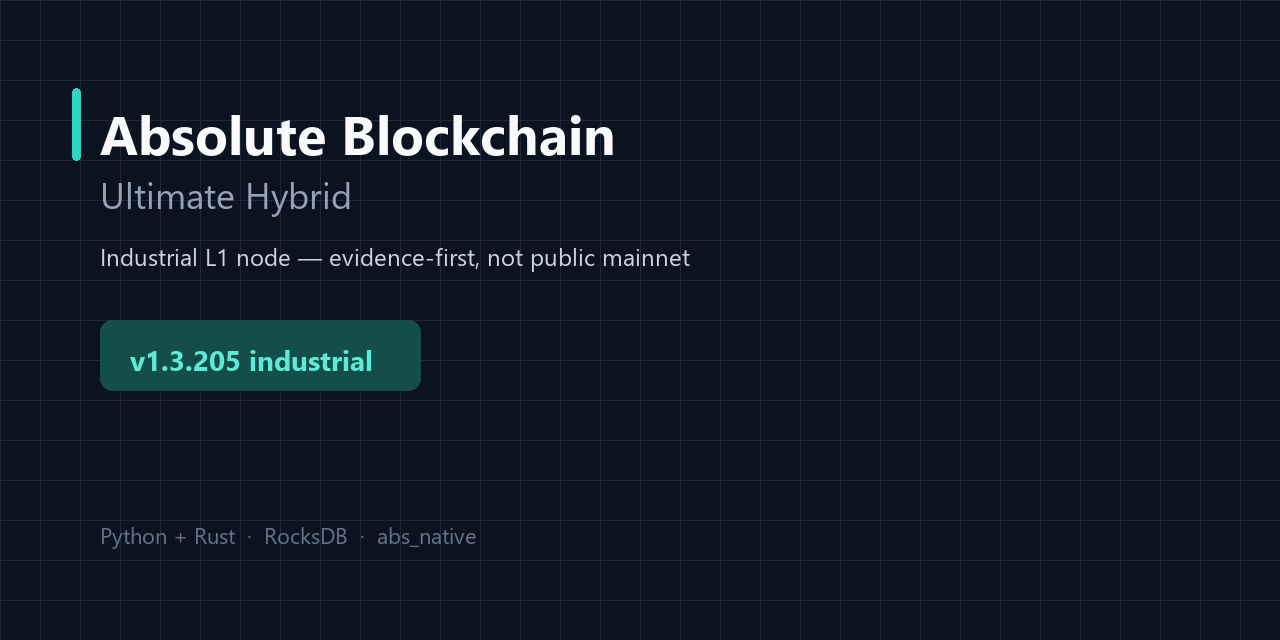
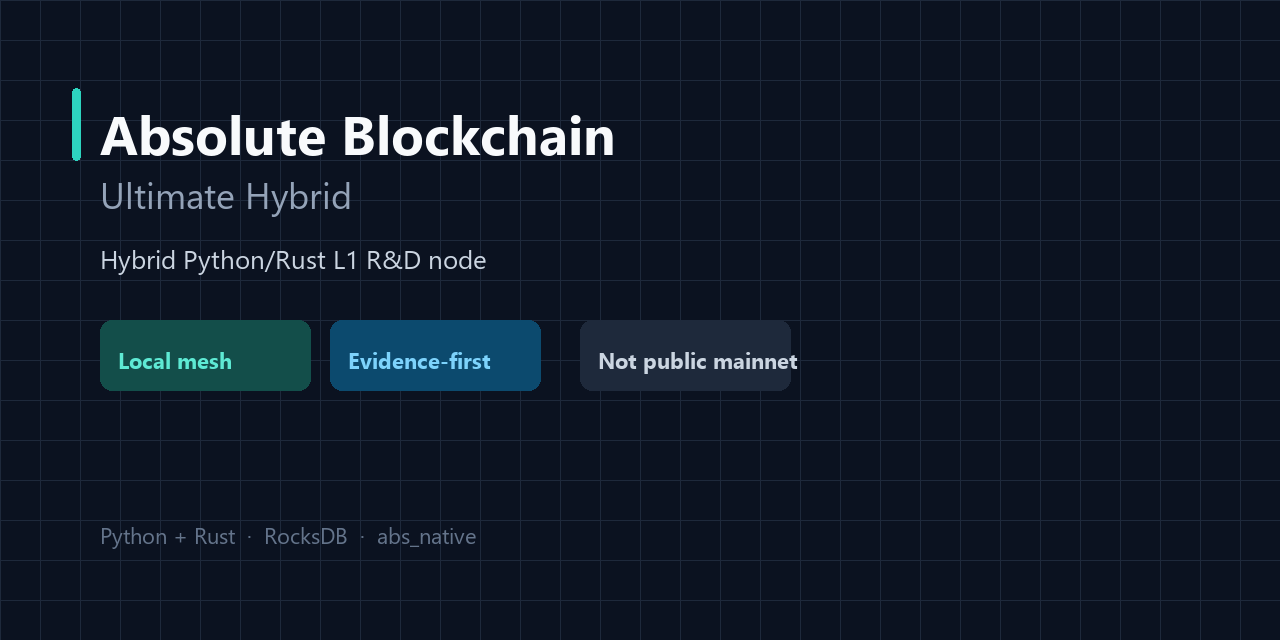
docs: tighten GitHub first screen — evergreen preview, Security checks, private vuln link.

Changed region(s): [[0.0938, 0.5, 0.625, 0.625], [0.0625, 0.375, 0.5312, 0.4375]]

diff --git a/README.md b/README.md
@@ -2,48 +2,13 @@
 
 ![Absolute Blockchain Ultimate Hybrid — Python + Rust L1](docs/assets/repo-banner.svg)
 
-**Hybrid Python + Rust L1 node** — prod-profile mesh, RocksDB, REST/JSON-RPC, `abs_native`, EVM, Docker/K8s. Evidence-first. **Not** a launched public mainnet.
+**Hybrid Python + Rust L1 node** for local prod-profile mesh and evidence-first R&D. **Not** a launched public mainnet.
 
-**Skimmer (30s):** [AT_A_GLANCE](docs/AT_A_GLANCE.md) · **Prove:** `.\scripts\operator_verify.ps1 -SkipNativeBuild` · **Gaps:** [MAINNET_GAP_ANALYSIS](docs/MAINNET_GAP_ANALYSIS.md)
-
-[![Stars](https://img.shields.io/github/stars/Gruver87/Absolute_Blockchain_Ultimate_Hybrid?style=social)](https://github.com/Gruver87/Absolute_Blockchain_Ultimate_Hybrid/stargazers)
 [![Release](https://img.shields.io/github/v/release/Gruver87/Absolute_Blockchain_Ultimate_Hybrid?include_prereleases&sort=semver)](https://github.com/Gruver87/Absolute_Blockchain_Ultimate_Hybrid/releases)
 [![License](https://img.shields.io/badge/License-MIT-green)](LICENSE)
 [![Tests CI](https://github.com/Gruver87/Absolute_Blockchain_Ultimate_Hybrid/actions/workflows/test.yml/badge.svg?branch=master)](https://github.com/Gruver87/Absolute_Blockchain_Ultimate_Hybrid/actions/workflows/test.yml)
 [![Docker CI](https://github.com/Gruver87/Absolute_Blockchain_Ultimate_Hybrid/actions/workflows/docker-prod-image.yml/badge.svg?branch=master)](https://github.com/Gruver87/Absolute_Blockchain_Ultimate_Hybrid/actions/workflows/docker-prod-image.yml)
-[![Security audit](https://github.com/Gruver87/Absolute_Blockchain_Ultimate_Hybrid/actions/workflows/security-audit.yml/badge.svg?branch=master)](https://github.com/Gruver87/Absolute_Blockchain_Ultimate_Hybrid/actions/workflows/security-audit.yml)
-[![Native fuzz](https://github.com/Gruver87/Absolute_Blockchain_Ultimate_Hybrid/actions/workflows/fuzz-native.yml/badge.svg?branch=master)](https://github.com/Gruver87/Absolute_Blockchain_Ultimate_Hybrid/actions/workflows/fuzz-native.yml)
-[![48h soak](https://img.shields.io/badge/48h%20soak-PASS-brightgreen)](docs/EVIDENCE_MATRIX.md)
-[![v1.3.205](https://img.shields.io/badge/tag-v1.3.205-blue)](RELEASE_NOTES_v1.3.205.md)
-[![Python](https://img.shields.io/badge/Python-3.10+-blue)](https://www.python.org/)
-[![Rust](https://img.shields.io/badge/Rust-abs__native-orange)](native/abs_native)
-
-| | |
-|---|---|
-| **Release** | [v1.3.205](RELEASE_NOTES_v1.3.205.md) · [CHANGELOG](CHANGELOG.md) · [Releases](https://github.com/Gruver87/Absolute_Blockchain_Ultimate_Hybrid/releases) |
-| **Prove it** | `.\scripts\operator_verify.ps1 -SkipNativeBuild` · `.\scripts\check_all.ps1` · CI badges above |
-| **Run** | `python main.py` → http://localhost:8080 |
-| **Chains** | `77777` lab · `778888` prod-profile (**not** public mainnet) |
-| **Evidence** | [EVIDENCE_MATRIX](docs/EVIDENCE_MATRIX.md) · gaps: [MAINNET_GAP_ANALYSIS](docs/MAINNET_GAP_ANALYSIS.md) |
-
----
-
-## 30 seconds — see everything
-
-| | Status | Proof |
-|---|--------|-------|
-| Docker / local mesh | **Proven** | CI · `docker_prod_3node` |
-| 3-node prod-profile (`778888`) | **Proven** | `:18180–18182` |
-| Failover + signed tx + EVM on mesh | **Proven** | Jul 2026 suite |
-| **48h soak** | **PASS** | `logs/soak_report_48h.json` |
-| Public mainnet / listed ABS / external audit | **No** | [gaps](docs/MAINNET_GAP_ANALYSIS.md) |
-| Bridge on live mesh | **OFF** | by design until L1 cutover |
-
-> Not an investment product. ABS = in-repo tokenomics (221M), not a listed asset. No real funds without independent audit.
-
-**Jump:** [Start](#start-in-60-seconds) · [Layout](#repo-layout-skimmers) · [Architecture](#architecture) · [Ops](#operator-cheatsheet) · [Docs](#docs-map) · [Professional posture](docs/REPO_PROFESSIONAL.md) · [Contribute](CONTRIBUTING.md) · [Support](SUPPORT.md)
-
----
+[![Security checks](https://github.com/Gruver87/Absolute_Blockchain_Ultimate_Hybrid/actions/workflows/security-audit.yml/badge.svg?branch=master)](https://github.com/Gruver87/Absolute_Blockchain_Ultimate_Hybrid/actions/workflows/security-audit.yml)
 
 ## Start in 60 seconds
 
@@ -59,6 +24,25 @@ pip install -r requirements.txt && cp .env.example .env
 | **Windows** | `.\scripts\build_native.ps1` | `.\scripts\operator_verify.ps1 -SkipNativeBuild` | `python main.py` |
 
 Explorer: http://localhost:8080 · Mesh: `make mesh-up` or `.\scripts\docker_prod_3node.ps1`
+
+**Skimmer:** [AT_A_GLANCE](docs/AT_A_GLANCE.md) · **Gaps:** [MAINNET_GAP_ANALYSIS](docs/MAINNET_GAP_ANALYSIS.md) · **Release:** [CHANGELOG](CHANGELOG.md)
+
+---
+
+## Proven vs not
+
+| | Status | Proof |
+|---|--------|-------|
+| Docker / local mesh | **Proven** | CI · `docker_prod_3node` |
+| 3-node prod-profile (`778888`) | **Proven** | `:18180–18182` |
+| Failover + signed tx + EVM on mesh | **Proven** | Jul 2026 suite |
+| **48h soak** | **PASS** | `logs/soak_report_48h.json` |
+| Public mainnet / listed ABS / external audit | **No** | [gaps](docs/MAINNET_GAP_ANALYSIS.md) |
+| Bridge on live mesh | **OFF** | by design until L1 cutover |
+
+> Not an investment product. ABS = in-repo tokenomics (221M), not a listed asset. No real funds without independent audit.
+
+**Jump:** [Layout](#repo-layout-skimmers) · [Architecture](#architecture) · [Ops](#operator-cheatsheet) · [Docs](#docs-map) · [Contribute](CONTRIBUTING.md) · [Support](SUPPORT.md)
 
 ---
 

diff --git a/.github/REPO_PROFILE.md b/.github/REPO_PROFILE.md
@@ -3,13 +3,13 @@
 Apply with:
 
 ```powershell
-gh repo edit --description "Absolute Blockchain — hybrid Python/Rust L1: prod 3-node mesh, RocksDB, REST/JSON-RPC, EVM, abs_native. 48h soak PASS (Jul 2026). Evidence-first — not a launched public mainnet."
-gh repo edit --homepage "https://github.com/Gruver87/Absolute_Blockchain_Ultimate_Hybrid#readme"
+gh repo edit --description "Hybrid Python/Rust L1 node for local mesh and evidence-first R&D — not a public mainnet."
+gh repo edit --homepage "https://github.com/Gruver87/Absolute_Blockchain_Ultimate_Hybrid#start-in-60-seconds"
 # topics (idempotent add):
 @(
   "absolute-blockchain","blockchain","blockchain-node","layer1","python","rust","pyo3",
-  "p2p","evm","rocksdb","docker","kubernetes","json-rpc","rest-api","pos","devnet",
-  "tokenomics","industrial","soak-test","cryptography","web3","hybrid-blockchain"
+  "p2p","evm","rocksdb","docker","kubernetes","json-rpc","rest-api","devnet",
+  "soak-test","cryptography","web3","hybrid-blockchain","blockchain-development"
 ) | ForEach-Object { gh repo edit --add-topic $_ }
 ```
 
@@ -17,11 +17,11 @@ Or paste into **Settings → General → About**.
 
 | Field | Value |
 |-------|-------|
-| **Description** | Absolute Blockchain — hybrid Python/Rust L1: prod 3-node mesh, RocksDB, REST/JSON-RPC, EVM, abs_native. 48h soak PASS (Jul 2026). Evidence-first — not a launched public mainnet. |
-| **Website** | https://github.com/Gruver87/Absolute_Blockchain_Ultimate_Hybrid#30-seconds--see-everything |
-| **Social preview** | ✅ Upload `docs/assets/repo-social-preview.png` in **Settings → General → Social preview** (done) |
+| **Description** | Hybrid Python/Rust L1 node for local mesh and evidence-first R&D — not a public mainnet. |
+| **Website** | https://github.com/Gruver87/Absolute_Blockchain_Ultimate_Hybrid#start-in-60-seconds |
+| **Social preview** | Upload evergreen `docs/assets/repo-social-preview.png` in **Settings → General → Social preview** |
 | **Skimmer card** | [docs/AT_A_GLANCE.md](../docs/AT_A_GLANCE.md) |
-| **Issue chooser** | Bug · Feature · Ops/verify · contact links to Evidence / SECURITY |
+| **Issue chooser** | Bug · Feature · Ops/verify · private vulnerability report · Evidence / SECURITY |
 
 ## Topics
 
@@ -41,14 +41,14 @@ kubernetes
 json-rpc
 rest-api
 devnet
-industrial
 soak-test
 cryptography
 web3
 hybrid-blockchain
+blockchain-development
 ```
 
-> Cap = 20 topics. Prefer `web3` / `hybrid-blockchain` over vague `pos` / `tokenomics` (avoids investment-product misread).
+> Cap = 20 topics. Prefer searchable stack terms over maturity labels like `industrial`.
 ## Branches
 
 | Branch | Role |
@@ -63,8 +63,7 @@ hybrid-blockchain
 | **Tag** | `v1.3.205` — mempool unparseable-nonce refuse |
 | **Notes** | [RELEASE_NOTES_v1.3.205.md](../RELEASE_NOTES_v1.3.205.md) |
 | **Self-check** | `.\scripts\operator_verify.ps1 -SkipNativeBuild` · `.\scripts\check_all.ps1` |
-| **Tests** | 1100+ collected (`pytest tests/ --collect-only`) |
-| **CI** | `test.yml`, `docker-prod-image.yml`, `security-audit.yml` |
+| **CI** | `test.yml`, `docker-prod-image.yml`, `security-audit.yml` (displayed as **Security checks**) |
 | **API wave** | 61 |
 
 ### Verified locally (Jul 2026)
@@ -87,4 +86,4 @@ hybrid-blockchain
 - **Is:** working hybrid L1 R&D stack; local prod-profile 3-node evidence; CI gates; soak-proven ops
 - **Is not:** live public mainnet; audited DeFi; investment product
 - **Evidence ledger:** `docs/EVIDENCE_MATRIX.md`
-- **Banner:** `docs/assets/repo-banner.svg`
+- **Banner:** evergreen `docs/assets/repo-banner.svg` (no version chip)

diff --git a/SECURITY.md b/SECURITY.md
@@ -12,8 +12,12 @@ This project is a **production-hardened R&D / devnet** stack. It is **not** a la
 ## Reporting a vulnerability
 
 1. **Do not** open a public issue with exploit details that could harm operators.
-2. Prefer a private GitHub Security Advisory (if enabled) or contact the repository owner **Gruver87** via GitHub.
+2. Prefer private reporting:
+   - [Open a private vulnerability report](https://github.com/Gruver87/Absolute_Blockchain_Ultimate_Hybrid/security/advisories/new)
+   - Or contact the repository owner **Gruver87** via GitHub
 3. Include: affected version/tag, reproduction steps, impact, and whether a fix is proposed.
+
+CI “Security checks” = dependency / supply-chain gates — **not** an independent external audit.
 
 ## Secrets — what must never enter Git
 

diff --git a/CHANGELOG.md b/CHANGELOG.md
@@ -6,6 +6,15 @@
 
 ---
 
+## [Unreleased]
+
+### Docs / GitHub UX
+
+- README first screen: fewer badges, quickstart above status table, Security checks wording
+- Evergreen banner + social preview (no per-release version chip)
+- SECURITY.md + issue chooser: private vulnerability report link
+- About description shortened (durable one-liner)
+
 ## [1.3.205] — 2026-07-26
 
 ### Mempool — unparseable-nonce refuse
